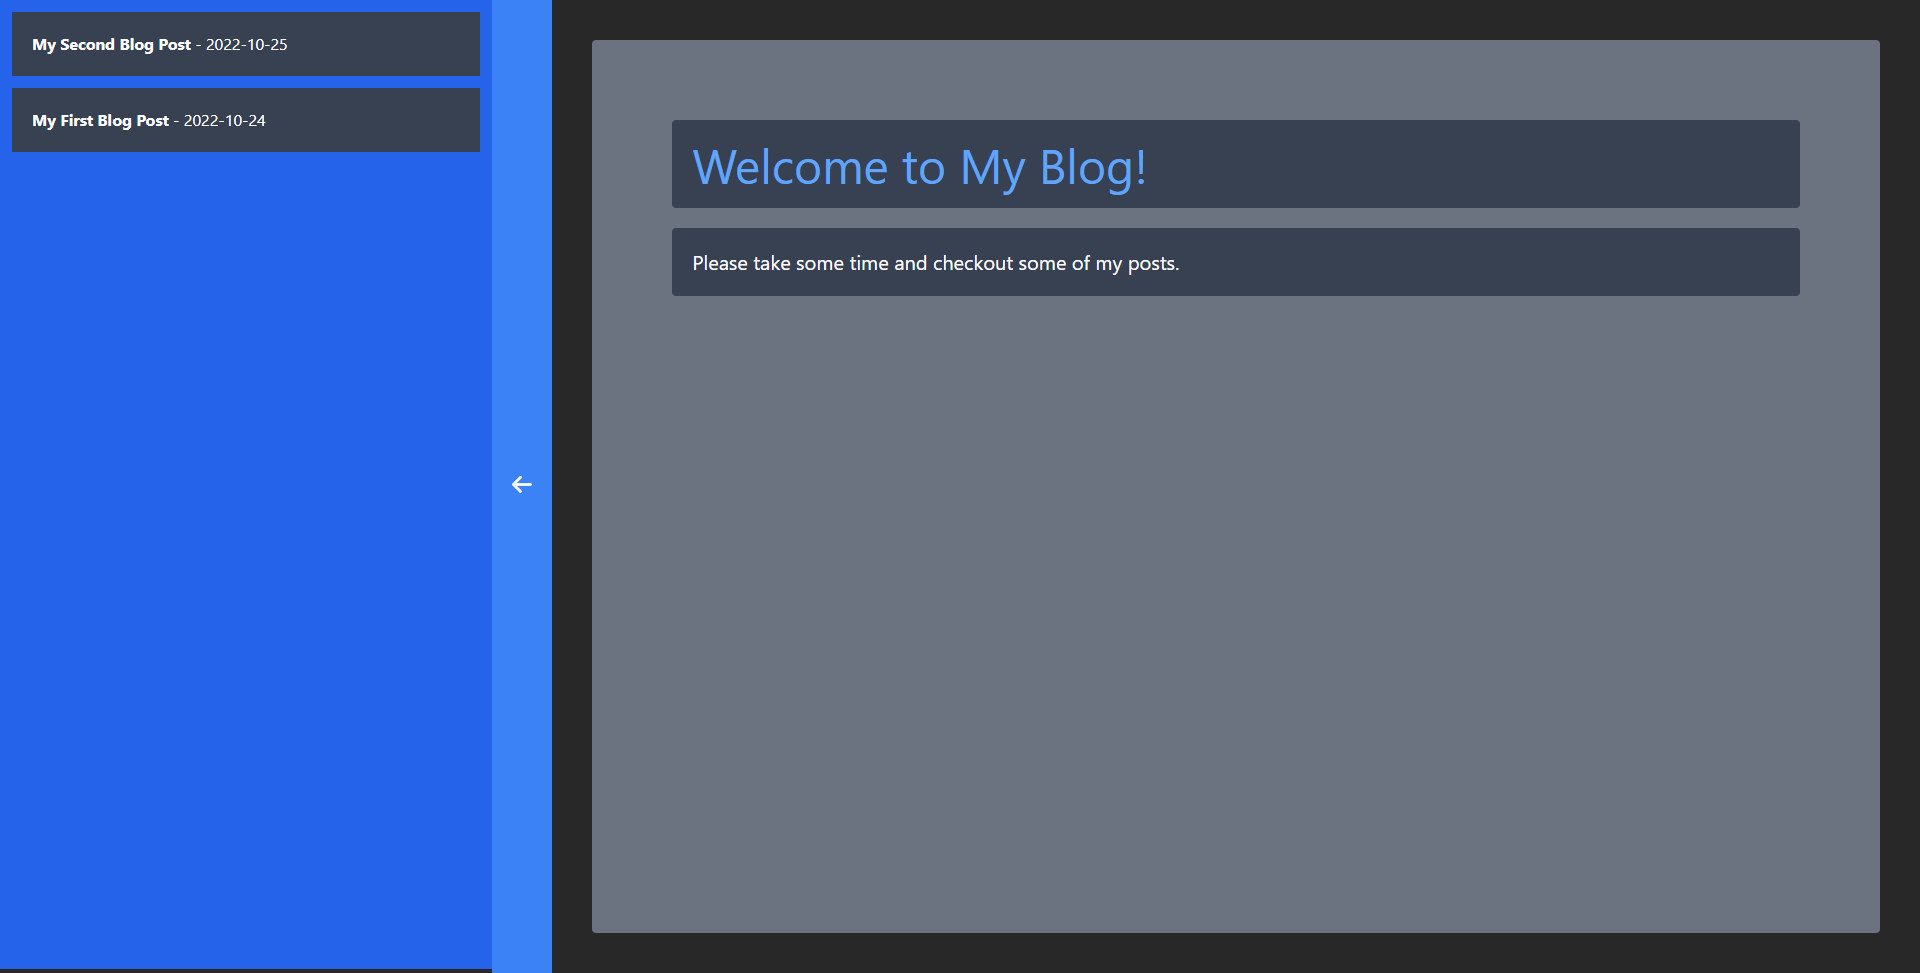
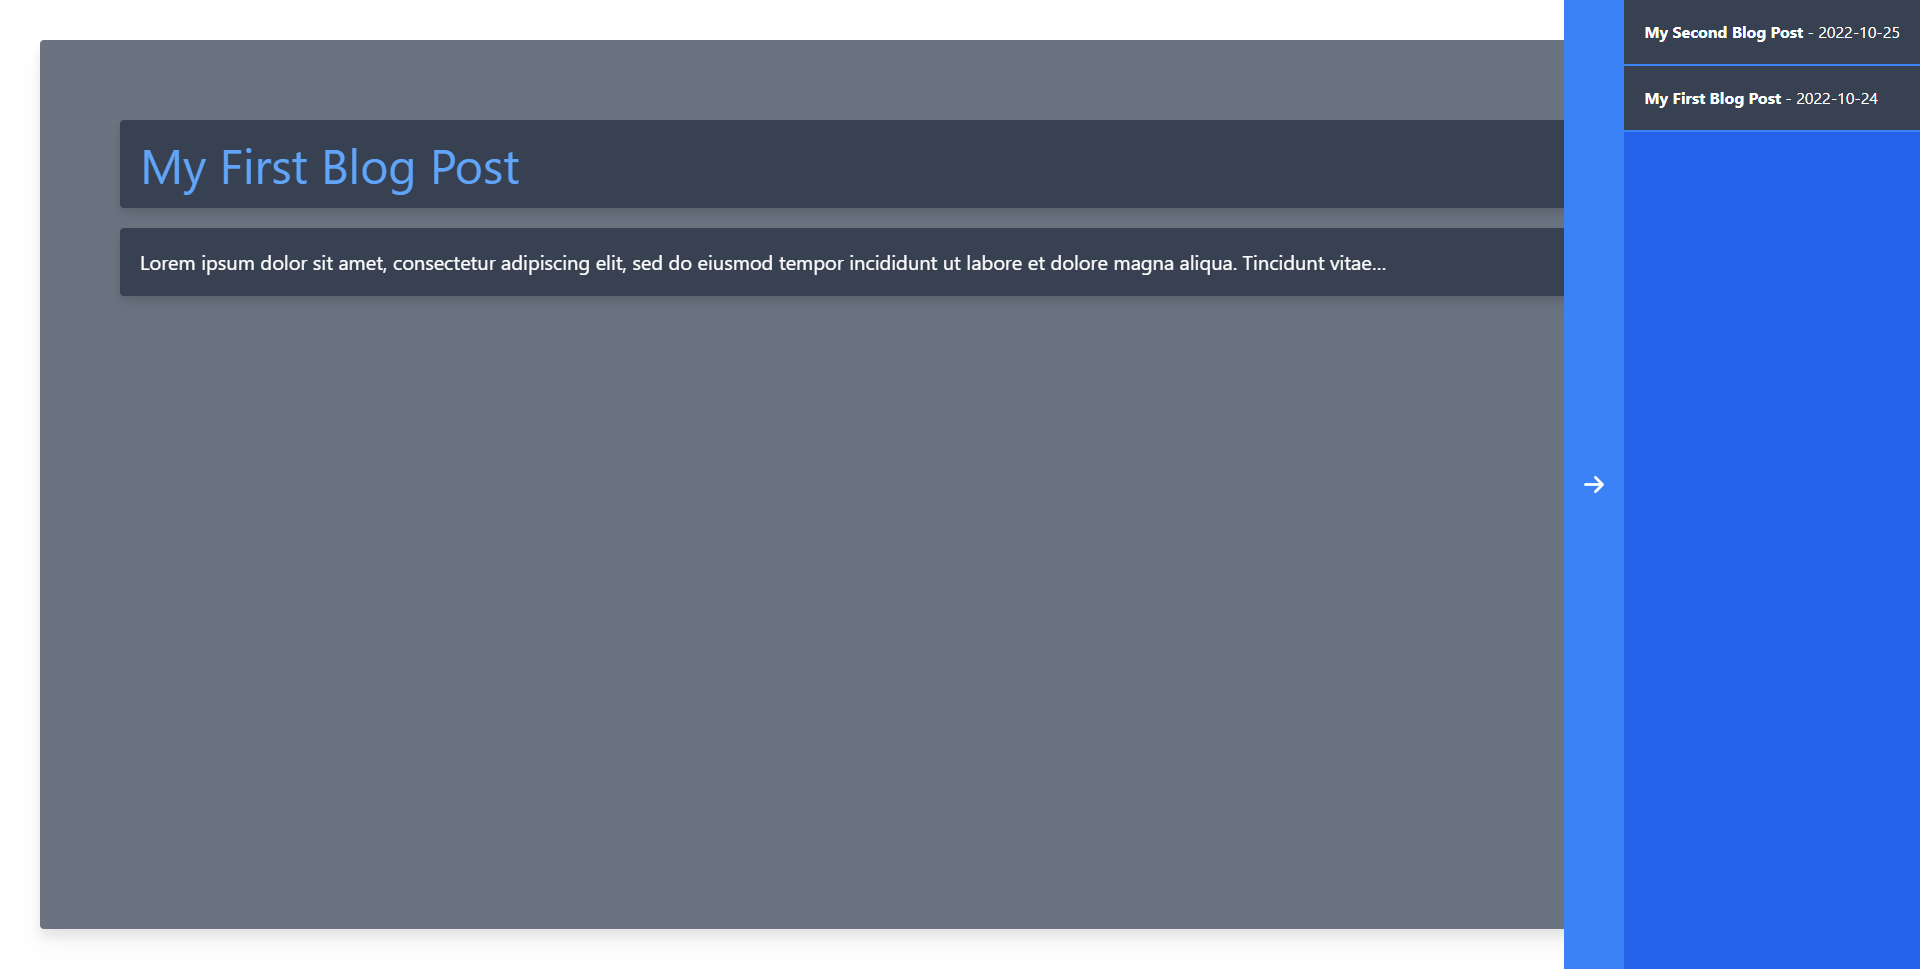
added responsive design as well as changed the layout and color palette

diff --git a/src/components/layout.js b/src/components/layout.js
@@ -1,11 +1,10 @@
 import * as React from "react";
-import {useState} from "react";
+import { useState } from "react";
 import { Link, useStaticQuery, graphql } from "gatsby";
-import { FontAwesomeIcon } from '@fortawesome/react-fontawesome';
-import {faArrowRight} from '@fortawesome/free-solid-svg-icons';
+import { FontAwesomeIcon } from "@fortawesome/react-fontawesome";
+import { faArrowRight } from "@fortawesome/free-solid-svg-icons";
 
 export default function Layout({ children }) {
-
   const [showSidebar, setShowSidebar] = useState(false);
 
   const data = useStaticQuery(graphql`
@@ -24,23 +23,45 @@ export default function Layout({ children }) {
   `);
 
   return (
-    <section className="flex">
-
-      <nav id="side-nav" className={`overflow-auto flex flex-col ease-in-out duration-300 bg-blue-600 text-white h-screen  ${showSidebar ? "w-0" : "w-2/5"}`}>
-      {data.allMdx.nodes.map((node) => (
-          <Link className={`ease-in-out duration-300 p-5 m-3 mb-0 bg-gray-700 w-700 hover:bg-gray-600 ${showSidebar ? "pointer-events-none translate-x--100" : "pointer-events-auto opacity-1"}`}to={`/${node.frontmatter.slug}`} key={node.id}>
-            <span className="font-bold"> {node.frontmatter.title} </span> - {node.frontmatter.date}
+    <section className="flex h-screen">
+      <nav
+        id="side-nav"
+        className={`flex top-0 right-0 bg-blue-600 text-white fixed h-full ease-in-out duration-300 z-40 ${
+          showSidebar ? "translate-x-0" : "translate-x-3/4"
+        }`}
+      >
+        <div
+          onClick={() => setShowSidebar(!showSidebar)}
+          className="text-white transition duration-300 bg-blue-500 pr-5 pl-5 hover:bg-blue-400 hover:cursor-pointer "
+        >
+          <FontAwesomeIcon
+            icon={faArrowRight}
+            className={`align-self-center h-screen w-5 text-center ${
+              showSidebar
+                ? "rotate-0"
+                : "rotate-180"
+            }`}
+          ></FontAwesomeIcon>
+        </div>
+        <div className="flex flex-col">
+          {data.allMdx.nodes.map((node) => (
+            <Link
+              className={`ease-in-out duration-300 p-5 m-0 mb-0 border-b-2 border-blue-500 bg-gray-700 w-700 hover:bg-gray-600 ${
+                showSidebar
+                  ? "pointer-events-auto"
+                  : "pointer-events-none opacity-0"
+              }`}
+              to={`/${node.frontmatter.slug}`}
+              key={node.id}
+            >
+              <span className="font-bold"> {node.frontmatter.title} </span> -{" "}
+              {node.frontmatter.date}
             </Link>
-      ))}
+          ))}
+        </div>
       </nav>
 
-      <div onClick={()=>setShowSidebar(!showSidebar)} className="text-white transition duration-300 bg-blue-500 pr-5 pl-5 hover:bg-blue-400 hover:cursor-pointer z-50">
-      <FontAwesomeIcon icon={faArrowRight} className={`align-self-center h-screen w-5 text-center ${showSidebar ? "rotate-0" : "rotate-180"}`}></FontAwesomeIcon>
-      </div>
-      
       {children}
-      
     </section>
-    
   );
 }

diff --git a/src/pages/index.js b/src/pages/index.js
@@ -4,9 +4,9 @@ import Layout from "../components/layout"
 export default function Home() {
   return (
       <Layout>
-        <section className="bg-gray-500 m-10 p-20 w-full rounded">
-      <h1 className="mb-5 text-5xl text-blue-400 bg-gray-700 p-5 rounded">Welcome to My Blog!</h1>
-      <p className="text-xl text-white bg-gray-700 p-5 rounded">Please take some time and checkout some of my posts.</p>
+        <section className=" bg-gray-500 text-center md:text-left md:m-10 m-5 md:p-20 p-10 md:mr-40 mr-28 w-full rounded">
+      <h1 className=" drop-shadow mb-5 text-5xl text-blue-400 bg-gray-700 p-5 rounded">Welcome to my blog!</h1>
+      <p className=" drop-shadow text-xl text-white bg-gray-700 p-5 rounded">Please take a moment to look around and find stuff you are interested in reading.</p>
       </section>
       </Layout>
   )

diff --git a/src/pages/{mdx.frontmatter__slug}.js b/src/pages/{mdx.frontmatter__slug}.js
@@ -5,11 +5,10 @@ import { graphql } from "gatsby";
 export default function BlogPage({ data }) {
   return (
     <Layout>
-      <section className="bg-gray-500 m-10 p-20 w-full rounded">
-      <h1 className="mb-5 text-5xl text-blue-400 bg-gray-700 p-5 rounded">{data.mdx.frontmatter.title}</h1>
-      <p className="text-xl text-white bg-gray-700 p-5 rounded">{data.mdx.excerpt}</p>
+      <section className="drop-shadow-xl bg-gray-500 text-center md:text-left md:m-10 m-5 md:p-20 p-10 md:mr-40 mr-28 w-full rounded">
+      <h1 className="drop-shadow-lg mb-5 text-5xl text-blue-400 bg-gray-700 p-5 rounded">{data.mdx.frontmatter.title}</h1>
+      <p className="drop-shadow-lg text-xl text-white bg-gray-700 p-5 rounded">{data.mdx.excerpt}</p>
       </section>
-      
     </Layout>
   );
 }

diff --git a/tailwind.config.js b/tailwind.config.js
@@ -7,7 +7,24 @@ module.exports = {
     "./src/components/**/*.{js,jsx,ts,tsx}",
   ],
   theme: {
-    extend: {},
+    screens: {
+      'sm': '640px',
+      // => @media (min-width: 640px) { ... }
+
+      'md': '768px',
+      // => @media (min-width: 768px) { ... }
+
+      'lg': '1024px',
+      // => @media (min-width: 1024px) { ... }
+
+      'xl': '1280px',
+      // => @media (min-width: 1280px) { ... }
+
+      '2xl': '1536px',
+      // => @media (min-width: 1536px) { ... }
+    },
+    extend: {
+},
   },
   plugins: [],
 }

diff --git a/src/styles/global.css b/src/styles/global.css
@@ -3,5 +3,5 @@
 @tailwind utilities;
 
 body{
-    background-color:#282828;
+    background-color:white;
 }
